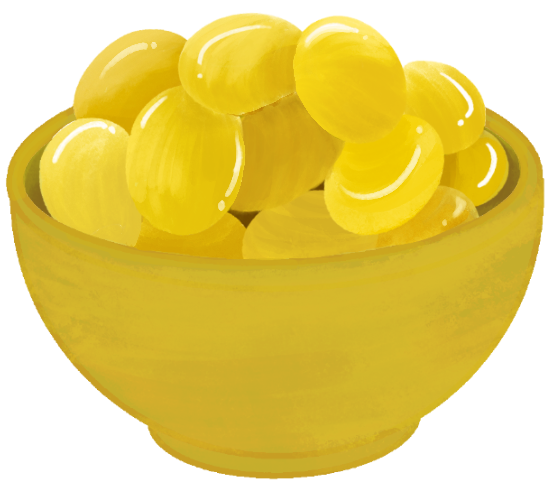
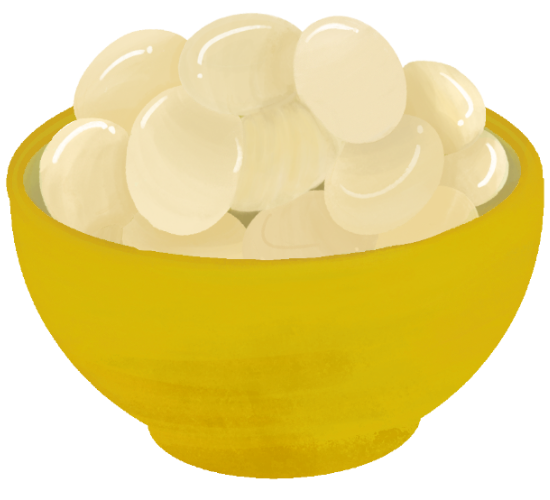
feat: Update drag-and-drop functionality and preload assets; add new images for halaman 7

diff --git a/izan/js/preload.js b/izan/js/preload.js
@@ -1,35 +1,28 @@
-function preloadAudio() {
-  const audioToLoad = [];
-
-  if (typeof bookData !== 'undefined' && bookData.spreads) {
-    bookData.spreads.forEach(spread => {
-      // Periksa audio di speechBubbles level spread
-      if (spread.speechBubbles) {
-        spread.speechBubbles.forEach(bubble => {
-          if (bubble.audio) audioToLoad.push(bubble.audio);
-        });
-      }
-
-      if (spread.introSpeechBubbles) {
-        spread.introSpeechBubbles.forEach(bubble => {
-          if (bubble.audio) audioToLoad.push(bubble.audio);
-        });
-      }
-
-      // Periksa audio di left/right jika ada yang menggunakan speechBubbles
-      if (spread.left && spread.left.speechBubbles) {
-        spread.left.speechBubbles.forEach(bubble => {
-          if (bubble.audio) audioToLoad.push(bubble.audio);
-        });
-      }
-      if (spread.right && spread.right.speechBubbles) {
-        spread.right.speechBubbles.forEach(bubble => {
-          if (bubble.audio) audioToLoad.push(bubble.audio);
-        });
-      }
+// Helper to recursively find asset paths in an object
+function extractAssets(obj, regex) {
+  let assets = [];
+  if (typeof obj === 'string') {
+    if (regex.test(obj)) {
+      assets.push(obj);
+    }
+  } else if (Array.isArray(obj)) {
+    obj.forEach(item => {
+      assets = assets.concat(extractAssets(item, regex));
     });
+  } else if (typeof obj === 'object' && obj !== null) {
+    for (let key in obj) {
+      assets = assets.concat(extractAssets(obj[key], regex));
+    }
   }
+  return assets;
+}
 
+function preloadAudio() {
+  if (typeof bookData === 'undefined' || !bookData.spreads) return;
+
+  const audioRegex = /\.(mp3|wav|ogg|m4a)$/i;
+  const audioToLoad = extractAssets(bookData.spreads, audioRegex);
+  
   const uniqueAudio = [...new Set(audioToLoad.filter(Boolean))];
 
   uniqueAudio.forEach(src => {
@@ -44,42 +37,19 @@ function preloadAudio() {
 }
 
 function preloadImages() {
-  const imagesToLoad = [];
+  if (typeof bookData === 'undefined' || !bookData.spreads) return;
 
-  if (typeof bookData !== 'undefined' && bookData.spreads) {
-    bookData.spreads.forEach(spread => {
-      if (spread.image) imagesToLoad.push(spread.image);
-      if (spread.introImage) imagesToLoad.push(spread.introImage);
-      if (spread.left && spread.left.image) imagesToLoad.push(spread.left.image);
-      if (spread.right && spread.right.image) imagesToLoad.push(spread.right.image);
-      if (spread.bgImage) imagesToLoad.push(spread.bgImage);
-      if (spread.handImage) imagesToLoad.push(spread.handImage);
-      if (spread.left && spread.left.type === 'guide-list' && spread.left.items) {
-        spread.left.items.forEach(item => { if (item.icon) imagesToLoad.push(item.icon); });
-      }
-      if (spread.right && spread.right.type === 'guide-list' && spread.right.items) {
-        spread.right.items.forEach(item => { if (item.icon) imagesToLoad.push(item.icon); });
-      }
-      if (spread.type === 'drag-drop-game') {
-        if (spread.dropZone) {
-          if (spread.dropZone.startSrc) imagesToLoad.push(spread.dropZone.startSrc);
-          if (spread.dropZone.doneSrc) imagesToLoad.push(spread.dropZone.doneSrc);
-        }
-        if (spread.draggables) {
-          spread.draggables.forEach(d => { if (d.src) imagesToLoad.push(d.src); });
-        }
-      }
-    });
-  }
+  const imageRegex = /\.(png|jpe?g|webp|gif|svg)$/i;
+  const imagesToLoad = extractAssets(bookData.spreads, imageRegex);
 
-  // Filter nilai kosong dan hapus duplikat
   const uniqueImages = [...new Set(imagesToLoad.filter(Boolean))];
 
-  // Fetch semua gambar ke cache browser secara asinkron
   uniqueImages.forEach(src => {
     const img = new Image();
     img.src = src;
   });
 
-  console.log(`Preloading ${uniqueImages.length} images di latar belakang...`);
+  if (uniqueImages.length > 0) {
+    console.log(`Preloading ${uniqueImages.length} images di latar belakang...`);
+  }
 }

diff --git a/izan/js/render.js b/izan/js/render.js
@@ -29,7 +29,7 @@ window.handleImageError = function (imgElement, src) {
 function renderSpeechBubbles(bubbles) {
   if (!bubbles || bubbles.length === 0) return '';
   return bubbles.map(bubble => {
-    const speechPosition = `top: ${bubble.top || '10%'}; left: ${bubble.left || '5%'}; right: ${bubble.right || 'auto'}; bottom: ${bubble.bottom || 'auto'};`;
+    const speechPosition = `top: ${bubble.top || '10%'}; left: ${bubble.left || '5%'}; right: ${bubble.right || 'auto'}; bottom: ${bubble.bottom || 'auto'}; z-index: 50;`;
     const balloonStyle = bubble.bgColor ? `background-color: ${bubble.bgColor};` : '';
     const btnStyle = bubble.btnColor ? `background-color: ${bubble.btnColor};` : '';
 
@@ -174,9 +174,11 @@ function renderSpreadHTML(spread, index) {
       <div class="page-content back-cover-page-unified" style="background: radial-gradient(circle, #FFFDE8 0%, ${spread.bgColorLeft || '#FFB26B'} 100%); width: 100%; height: 100%; display: flex; flex-direction: column; justify-content: center; align-items: center; box-sizing: border-box; padding: 40px; text-align: center;">
         <h2 class="back-cover-title">${spread.left.title}</h2>
         <p class="back-cover-text">${spread.left.message}</p>
-        <button class="bouncy-btn" style="margin-top: 30px; padding: 15px 30px; font-family: var(--font-title); font-size: 1.5rem; background-color: var(--color-primary); color: white; border: none; border-radius: 50px; cursor: pointer; box-shadow: 0 6px 0 rgba(0,0,0,0.2), 0 10px 20px rgba(0,0,0,0.15); transition: transform 0.2s;" onclick="goToFirstPage()" onmousedown="this.style.transform='scale(0.95)'" onmouseup="this.style.transform='scale(1)'" onmouseleave="this.style.transform='scale(1)'">
-          🏠 Baca Ulang Cerita
-        </button>
+        <div style="margin-top: 30px; animation: float-avatar 3s ease-in-out infinite alternate;">
+          <button class="start-btn bouncy-btn" onclick="goToFirstPage(); if (typeof sounds !== 'undefined' && sounds.playPop) sounds.playPop();">
+             📙 Baca Ulang Cerita
+          </button>
+        </div>
       </div>
     `;
   }
@@ -203,7 +205,7 @@ function renderSpreadHTML(spread, index) {
     const draggablesHtml = spread.draggables.map(d => `
       <img src="${d.src}" class="draggable-item" data-id="${d.id}" data-correct="${d.correct}" 
            draggable="false"
-           style="width: 140px; height: auto; cursor: grab; position: relative; touch-action: none; z-index: 10; transform: transition: transform 0.3s;" 
+           style="width: 160px; height: auto; cursor: grab; position: relative; touch-action: none; z-index: 10; transition: transform 0.3s;" 
            onerror="handleImageError(this, '${d.src}')">
     `).join('');
 
@@ -214,29 +216,46 @@ function renderSpreadHTML(spread, index) {
       <div class="drag-drop-intro-overlay" style="position: absolute; top: 0; left: 0; width: 100%; height: 100%; background: ${spread.bgColor || '#FFFDF7'}; z-index: 50; display: flex; flex-direction: column; align-items: center; justify-content: center; transition: opacity 0.3s ease;">
         <img src="${spread.introImage}" class="full-bleed-image" style="position: absolute; top: 0; left: 0; width: 100%; height: 100%; object-fit: cover;" onerror="handleImageError(this, '${spread.introImage}')">
         ${introSpeechHtml}
-        <button class="bouncy-btn" style="position: absolute; bottom: 50px; font-size: 1.8rem; padding: 15px 40px; z-index: 51; box-shadow: 0 10px 25px rgba(0,0,0,0.3);" onclick="this.parentElement.style.opacity='0'; setTimeout(() => this.parentElement.style.display='none', 300); if (typeof sounds !== 'undefined' && sounds.playPop) sounds.playPop();">Mulai Main!</button>
+        <div style="width: 15%; position: absolute; bottom: 50px; left: 50%; transform: translateX(-50%); z-index: 51;">
+          <div style="animation: float-avatar 3s ease-in-out infinite alternate;">
+            <button class="start-btn bouncy-btn" onclick="const popup = this.closest('.page-spread-container').querySelector('.game-popup-overlay'); if(popup){ document.getElementById('app-container').appendChild(popup); popup.classList.remove('hidden'); popup.style.display='flex'; } if (typeof sounds !== 'undefined' && sounds.playPop) sounds.playPop();">
+              Mulai Main ➔
+            </button>
+          </div>
+        </div>
       </div>
     ` : '';
 
     return `
-      <div class="page-spread-container drag-drop-spread" style="background: ${spread.bgColor || '#FFFDF7'}; width: 100%; height: 100%; display: flex; flex-direction: column; align-items: center; justify-content: flex-start; box-sizing: border-box; padding: 40px 60px; user-select: none; position: relative;">
+      <div class="page-spread-container drag-drop-spread" style="background: ${spread.bgColor || '#FFFDF7'}; width: 100%; height: 100%; display: flex; flex-direction: column; align-items: center; justify-content: flex-start; box-sizing: border-box; padding: 0; user-select: none; position: relative;">
         ${introHtml}
-        ${speechHtml}
-        <div class="story-text-container" style="margin-bottom: 20px; width: 100%; border: none; box-shadow: none; background: transparent; padding: 0; flex-direction: column;">
-          <h2 style="font-family: var(--font-title); font-size: 2.8rem; line-height: 1.4; margin: 0; text-align: center; color: var(--color-wood); text-shadow: 0 4px 0px rgba(255, 255, 255, 0.8), 3px 6px 0px rgba(139, 90, 43, 0.15); letter-spacing: 1px;">
-            ${spread.title.replace(/\n/g, '<br>')}
-            ${spread.subtitle ? `<span style="display: block; font-size: 1.5rem; color: var(--color-text); font-family: var(--font-body); font-weight: 700; text-shadow: none; letter-spacing: normal; margin-top: 10px;">${spread.subtitle}</span>` : ''}
-          </h2>
-        </div>
-        <div style="display: flex; width: 100%; justify-content: space-between; align-items: center; flex-grow: 1; margin-top: 0px; padding: 0 40px;">
-          <div class="drag-items-container" style="display: flex; flex-direction: column; align-items: center; gap: 0px; padding-left: 20px;">
-             ${draggablesHtml}
+        
+        <!-- The Game Popup Overlay -->
+        <div class="game-popup-overlay hidden" style="position: absolute; top: 0; left: 0; width: 100%; height: 100%; background: rgba(0,0,0,0.8); z-index: 100; display: none; align-items: center; justify-content: center;">
+          <!-- 16:9 Popup Container -->
+          <div class="game-popup-content" style="aspect-ratio: 16/9; width: 90%; max-height: 90%; background: ${spread.bgColor || '#FFFDF7'}; border-radius: 28px; border: 8px solid var(--color-wood); display: flex; flex-direction: column; position: relative; padding: 25px 40px; box-shadow: 0 20px 60px rgba(0,0,0,0.4); box-sizing: border-box; animation: pop-up 0.4s cubic-bezier(0.175, 0.885, 0.32, 1.275) forwards;">
+            
+            <button class="close-btn bouncy-btn" style="position: absolute; top: -15px; right: -15px; z-index: 110; width: 45px; height: 45px; padding: 0; border-radius: 50%; background: #ff4757; border: 4px solid var(--color-wood); color: white; display: flex; align-items: center; justify-content: center; font-size: 1.4rem;" onclick="const popup = this.closest('.game-popup-overlay'); popup.style.display='none'; popup.classList.add('hidden'); const container = document.querySelector('.drag-drop-spread'); if(container) { container.appendChild(popup); } else { popup.remove(); } if (typeof sounds !== 'undefined' && sounds.playPop) sounds.playPop();">X</button>
+
+            ${speechHtml}
+            <div class="story-text-container" style="margin-bottom: 10px; width: 100%; border: none; box-shadow: none; background: transparent; padding: 0; flex-direction: column; z-index: 5;">
+              <h2 style="font-family: var(--font-title); font-size: 2.2rem; line-height: 1.2; margin: 0; text-align: center; color: var(--color-wood); text-shadow: 0 4px 0px rgba(255, 255, 255, 0.8), 3px 6px 0px rgba(139, 90, 43, 0.15); letter-spacing: 1px;">
+                ${spread.title.replace(/\n/g, '<br>')}
+                ${spread.subtitle ? `<span style="display: block; font-size: 1.2rem; color: var(--color-text); font-family: var(--font-body); font-weight: 700; text-shadow: none; letter-spacing: normal; margin-top: 5px;">${spread.subtitle}</span>` : ''}
+              </h2>
+            </div>
+            <div style="display: flex; width: 100%; justify-content: space-between; align-items: center; flex-grow: 1; margin-top: 0px; padding: 0 40px;">
+              <div class="drag-items-container" style="display: flex; flex-direction: column; align-items: center; gap: 0px; padding-left: 30px; z-index: 10;">
+                 ${draggablesHtml}
+              </div>
+              <div class="drop-zone-container" style="position: relative; margin-right: 30%; margin-top: 2%; z-index: 5;">
+                <img src="${spread.dropZone.startSrc}" id="drop-zone-img" data-done-src="${spread.dropZone.doneSrc}" style="width: 320px; height: auto;" onerror="handleImageError(this, '${spread.dropZone.startSrc}')">
+              </div>
+            </div>
+            <div class="drag-feedback hidden" data-correct-text="${spread.feedbackCorrect}" data-incorrect-text="${spread.feedbackIncorrect}" style="position: absolute; bottom: 6%; left: 59%; transform: translateX(-50%); width: 350px; text-align: center; font-family: var(--font-body); font-weight: bold; background: white; padding: 10px 20px; border-radius: 20px; border: 4px solid var(--color-wood); box-shadow: 0 10px 20px rgba(0,0,0,0.2); z-index: 100; font-size: 1.2rem;"></div>
           </div>
-          <div class="drop-zone-container" style="position: relative; margin-right: 200px;">
-            <img src="${spread.dropZone.startSrc}" id="drop-zone-img" data-done-src="${spread.dropZone.doneSrc}" style="width: 350px; height: auto;" onerror="handleImageError(this, '${spread.dropZone.startSrc}')">
-          </div>
         </div>
-        <div class="drag-feedback hidden" data-correct-text="${spread.feedbackCorrect}" data-incorrect-text="${spread.feedbackIncorrect}" style="position: absolute; bottom: 25px; left: 57%; transform: translateX(-50%); width: 400px; text-align: center; font-family: var(--font-body); font-weight: bold; background: white; padding: 15px 25px; border-radius: 25px; border: 4px solid var(--color-wood); box-shadow: 0 15px 30px rgba(0,0,0,0.2); z-index: 100; font-size: 1.4rem;"></div>
+
       </div>
     `;
   }

diff --git a/izan/js/drag-drop.js b/izan/js/drag-drop.js
@@ -2,6 +2,7 @@ window.initDragDrop = function (container) {
   const draggables = container.querySelectorAll('.draggable-item');
   const dropZone = container.querySelector('.drop-zone-container');
   const dropZoneImg = container.querySelector('#drop-zone-img');
+  const feedback = container.querySelector('.drag-feedback');
 
   if (!draggables.length || !dropZone || !dropZoneImg) return;
 
@@ -17,12 +18,15 @@ window.initDragDrop = function (container) {
       isDragging = true;
       const clientX = e.type.includes('mouse') ? e.clientX : e.touches[0].clientX;
       const clientY = e.type.includes('mouse') ? e.clientY : e.touches[0].clientY;
+      const scale = Math.min(window.innerWidth / 1280, window.innerHeight / 720) || 1;
 
-      startX = clientX - currentX;
-      startY = clientY - currentY;
+      startX = clientX - (currentX * scale);
+      startY = clientY - (currentY * scale);
 
       item.style.zIndex = 1000;
       item.style.transition = 'none'; // remove transition while dragging
+      item.style.willChange = 'transform';
+      item.style.pointerEvents = 'none';
       item.style.transform = `translate(${currentX}px, ${currentY}px) scale(1.1) rotate(35deg)`;
       item.style.cursor = 'grabbing';
     };
@@ -33,9 +37,10 @@ window.initDragDrop = function (container) {
 
       const clientX = e.type.includes('mouse') ? e.clientX : e.touches[0].clientX;
       const clientY = e.type.includes('mouse') ? e.clientY : e.touches[0].clientY;
+      const scale = Math.min(window.innerWidth / 1280, window.innerHeight / 720) || 1;
 
-      currentX = clientX - startX;
-      currentY = clientY - startY;
+      currentX = (clientX - startX) / scale;
+      currentY = (clientY - startY) / scale;
 
       item.style.transform = `translate(${currentX}px, ${currentY}px) scale(1.1) rotate(35deg)`;
     };
@@ -45,6 +50,8 @@ window.initDragDrop = function (container) {
       isDragging = false;
 
       item.style.transition = 'transform 0.3s ease';
+      item.style.willChange = 'auto';
+      item.style.pointerEvents = 'auto';
       item.style.zIndex = 10;
       item.style.cursor = 'grab';
 
@@ -71,7 +78,6 @@ window.initDragDrop = function (container) {
 
           if (typeof sounds !== 'undefined' && sounds.playChime) sounds.playChime();
 
-          const feedback = container.querySelector('.drag-feedback');
           if (feedback) {
             if (feedbackTimeout) clearTimeout(feedbackTimeout);
             feedback.innerHTML = `<span style="color:var(--color-grass-dark)">${feedback.dataset.correctText}</span>`;
@@ -85,7 +91,6 @@ window.initDragDrop = function (container) {
 
           if (typeof sounds !== 'undefined' && sounds.playWrong) sounds.playWrong();
 
-          const feedback = container.querySelector('.drag-feedback');
           if (feedback) {
             if (feedbackTimeout) clearTimeout(feedbackTimeout);
             feedback.innerHTML = `<span style="color:#C0392B">${feedback.dataset.incorrectText}</span>`;

diff --git a/izan/css/style.css b/izan/css/style.css
@@ -660,7 +660,7 @@ li .icon-btn svg {
   background-color: var(--color-primary);
   border: 4px solid var(--color-wood);
   border-radius: 20px;
-  padding: 12px 35px;
+  padding: 12px 20px;
   font-family: var(--font-title);
   font-size: 1.5rem;
   color: #FFFFFF;
@@ -1026,7 +1026,7 @@ li .icon-btn svg {
   justify-content: center;
   align-items: center;
   flex-shrink: 0;
-  box-shadow: 0 4px 0px rgba(0,0,0,0.2);
+  box-shadow: 0 4px 0px rgba(0, 0, 0, 0.2);
   cursor: pointer;
   transition: transform 0.15s, box-shadow 0.15s;
   z-index: 5;
@@ -1034,13 +1034,13 @@ li .icon-btn svg {
 
 .speech-play-btn:hover {
   transform: translateY(-2px) scale(1.05);
-  box-shadow: 0 6px 0px rgba(0,0,0,0.2);
+  box-shadow: 0 6px 0px rgba(0, 0, 0, 0.2);
   background-color: var(--color-grass-dark);
 }
 
 .speech-play-btn:active {
   transform: translateY(2px);
-  box-shadow: 0 2px 0px rgba(0,0,0,0.2);
+  box-shadow: 0 2px 0px rgba(0, 0, 0, 0.2);
 }
 
 .speech-balloon {
@@ -1054,6 +1054,6 @@ li .icon-btn svg {
   line-height: 1.4;
   text-align: left;
   border: 4px solid var(--color-wood-light);
-  box-shadow: 0 10px 20px rgba(0,0,0,0.15);
+  box-shadow: 0 10px 20px rgba(0, 0, 0, 0.15);
   position: relative;
 }

diff --git a/izan/js/book-data.js b/izan/js/book-data.js
@@ -152,15 +152,15 @@ const bookData = {
         {
           text: "Bantu Izan Teteskan Sirup, Yuk!",
           audio: "audio/halaman-7.mp3",
-          top: "9%",
-          left: "88%",
+          top: "6%",
+          left: "77%",
           hideText: true
         },
         {
-          text: "Tuang Botol Sirup Sesuai Warna Mangkok Kolang-Kaling",
+          text: "Tuang Botol Sirup Sesuai Warna Mangkok 🔴🟢🟡",
           audio: "audio/halaman-7.mp3",
-          top: "20%",
-          left: "84%",
+          top: "14%",
+          left: "74%",
           hideText: true
         }
       ],

diff --git a/izan/index.html b/izan/index.html
@@ -195,10 +195,11 @@
             </svg>
           </div>
           <h2>Buku Cerita Interaktif</h2>
-
-          <button id="btn-start" class="start-btn bouncy-btn">
-            Mulai Membaca ➔
-          </button>
+          <div style="animation: float-avatar 3s ease-in-out infinite alternate;">
+            <button id="btn-start" class="start-btn bouncy-btn">
+              Mulai Membaca ➔
+            </button>
+          </div>
         </div>
       </div>
     </div>